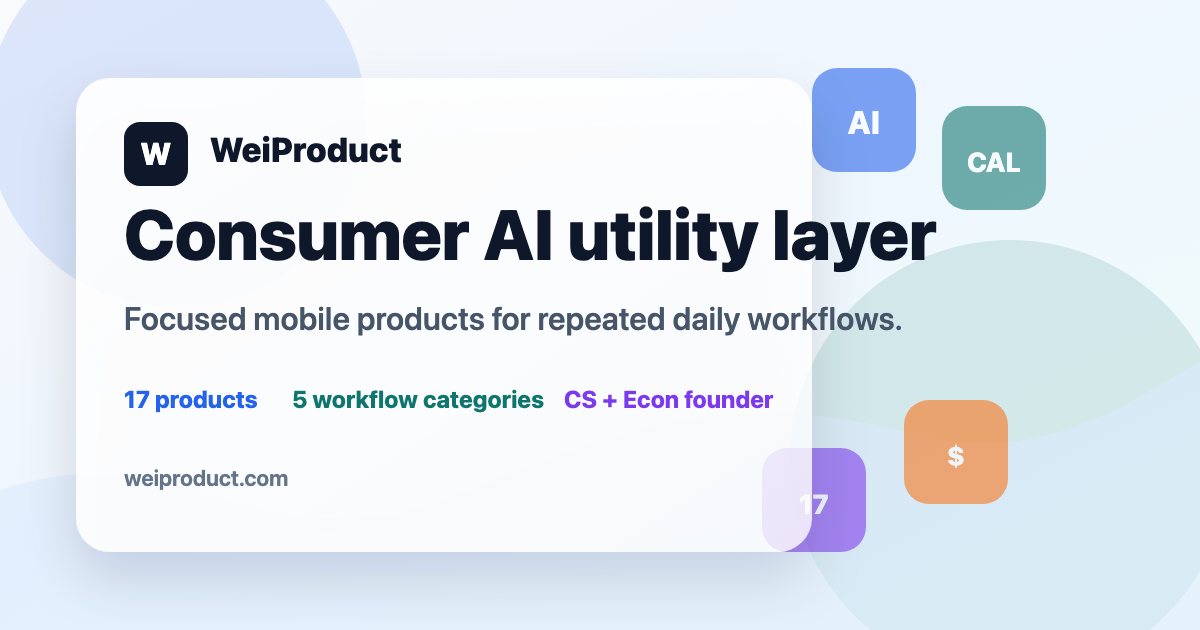
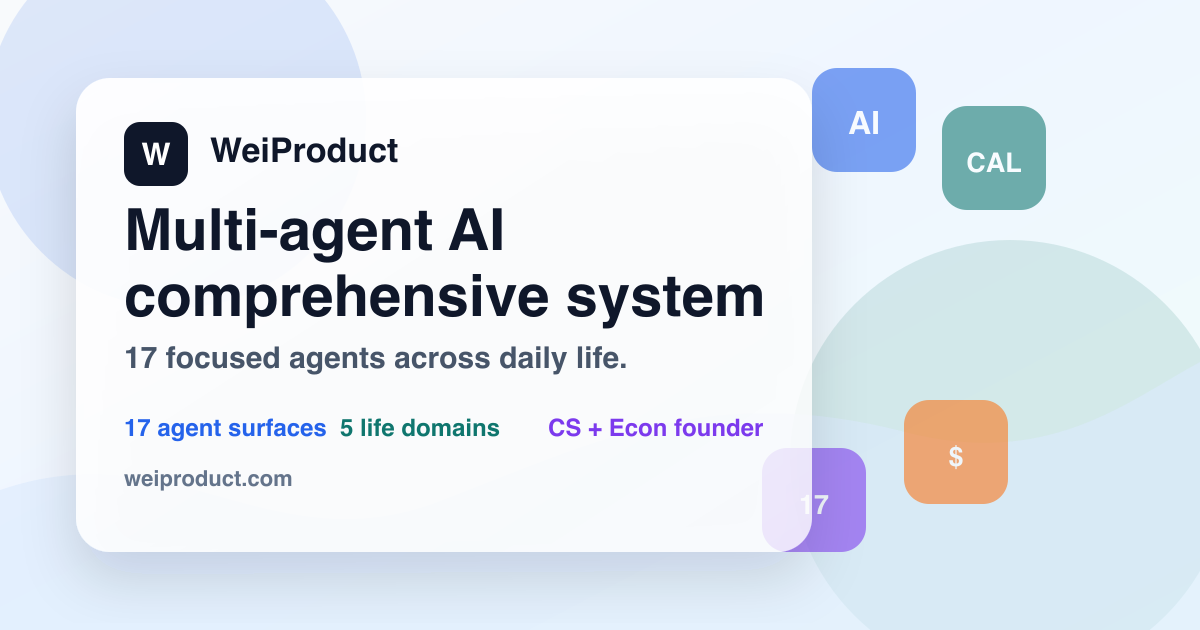
Update site theme to multi-agent AI system

diff --git a/index.html b/index.html
@@ -4,21 +4,21 @@
     <meta charset="UTF-8">
     <meta name="viewport" content="width=device-width, initial-scale=1.0">
     <meta name="theme-color" content="#0f172a">
-    <meta name="description" content="WeiProduct is a founder-led AI consumer product studio building focused mobile apps for daily workflows across productivity, finance, learning, wellness, and utility.">
+    <meta name="description" content="WeiProduct is a founder-led comprehensive multi-agent AI system built from 17 focused apps across productivity, finance, learning, wellness, and daily utility.">
     <meta name="robots" content="index, follow">
-    <meta property="og:title" content="WeiProduct | AI Consumer Product Studio">
-    <meta property="og:description" content="Founder-led AI consumer products, shipped fast and refined through a portfolio of focused mobile workflows.">
+    <meta property="og:title" content="WeiProduct | Multi-Agent AI Comprehensive System">
+    <meta property="og:description" content="A comprehensive multi-agent AI system connecting 17 focused apps into a personal context layer for better everyday decisions.">
     <meta property="og:type" content="website">
     <meta property="og:url" content="https://weiproduct.com/">
     <meta property="og:image" content="https://weiproduct.com/assets/brand/social-card.png">
     <meta property="og:image:width" content="1200">
     <meta property="og:image:height" content="630">
     <meta name="twitter:card" content="summary_large_image">
-    <meta name="twitter:title" content="WeiProduct | AI Consumer Product Studio">
-    <meta name="twitter:description" content="AI consumer products for daily workflows, built by a fast-moving CS and economics founder.">
+    <meta name="twitter:title" content="WeiProduct | Multi-Agent AI Comprehensive System">
+    <meta name="twitter:description" content="17 focused AI apps working as specialized agents across daily life, built by a fast-moving CS and economics founder.">
     <meta name="twitter:image" content="https://weiproduct.com/assets/brand/social-card.png">
 
-    <title>WeiProduct | AI Consumer Product Studio</title>
+    <title>WeiProduct | Multi-Agent AI Comprehensive System</title>
     <link rel="preload" href="css/style.css?v=20260514-site-system" as="style">
     <link rel="stylesheet" href="css/style.css?v=20260514-site-system">
     <link rel="canonical" href="https://weiproduct.com/">
@@ -33,7 +33,7 @@
       "name": "WeiProduct",
       "url": "https://weiproduct.com/",
       "logo": "https://weiproduct.com/assets/icons/ai-voice-notes.png",
-      "description": "WeiProduct is a founder-led AI consumer product studio building focused mobile apps for daily workflows across productivity, finance, learning, wellness, and utility.",
+      "description": "WeiProduct is a founder-led comprehensive multi-agent AI system built from 17 focused apps across productivity, finance, learning, wellness, and daily utility.",
       "areaServed": "Worldwide",
       "telephone": "+14135888637",
       "address": {
@@ -58,7 +58,7 @@
     {
       "@context": "https://schema.org",
       "@type": "ItemList",
-      "name": "WeiProduct app portfolio",
+      "name": "WeiProduct multi-agent app portfolio",
       "numberOfItems": 17,
       "itemListElement": [
         {
@@ -183,7 +183,7 @@
             </button>
             <ul class="nav-menu" id="navMenu">
                 <li><a href="#thesis" class="nav-link">Thesis</a></li>
-                <li><a href="#products" class="nav-link">Products</a></li>
+                <li><a href="#products" class="nav-link">Agents</a></li>
                 <li><a href="#founder" class="nav-link">Founder</a></li>
                 <li><a href="#contact" class="nav-link nav-cta">Investor contact</a></li>
             </ul>
@@ -194,15 +194,15 @@
         <section id="home" class="hero">
             <div class="container hero-layout">
                 <div class="hero-copy">
-                    <p class="eyebrow">AI consumer products, shipped fast</p>
-                    <h1>Building the consumer AI utility layer.</h1>
+                    <p class="eyebrow">Multi-agent AI comprehensive system</p>
+                    <h1>Building personal AI that understands the whole person.</h1>
                     <p class="hero-description">
-                        WeiProduct turns everyday workflows into focused mobile products across productivity, finance, learning, wellness, and utility. The advantage is founder velocity: many real products shipped, tested, and refined into a portfolio that reveals where users pull hardest.
+                        WeiProduct connects 17 focused AI apps into a coordinated personal system across productivity, finance, learning, wellness, notes, voice, calendar, habits, and utility. Each app acts as a specialized agent for one life domain; together they create richer context for better decisions.
                     </p>
                     <div class="hero-actions">
                         <a href="#products" class="btn btn-primary">
                             <span aria-hidden="true" class="ui-icon icon-layers"></span>
-                            See product velocity
+                            See the agent system
                         </a>
                         <a href="#founder" class="btn btn-secondary">
                             <span aria-hidden="true" class="ui-icon icon-founder"></span>
@@ -212,11 +212,11 @@
                     <div class="hero-metrics" aria-label="Company metrics">
                         <div>
                             <strong>17</strong>
-                            <span>Mobile products in the current portfolio</span>
+                            <span>Specialized AI agents in the current system</span>
                         </div>
                         <div>
                             <strong>5</strong>
-                            <span>Daily workflow categories</span>
+                            <span>Life domains connected into one context layer</span>
                         </div>
                         <div>
                             <strong>CS + Econ</strong>
@@ -231,35 +231,35 @@
             <div class="container">
                 <div class="section-heading">
                     <p class="eyebrow">Investment thesis</p>
-                    <h2>Consumer AI will be won inside repeated daily habits.</h2>
+                    <h2>The next personal AI will be multi-agent, not single-window chat.</h2>
                     <p>
-                        Generic assistants are powerful, but most people adopt software through specific moments: recording a thought, planning a day, learning a word, tracking health, or making a small financial decision. WeiProduct is built to discover and compound those moments quickly.
+                        A simple chatbot is limited by a fixed context window. People need help inside recurring life systems: planning time, learning, tracking health, managing money, capturing thoughts, and building habits. WeiProduct is designed as a network of specialized agents that learn from those daily workflows and coordinate around the user.
                     </p>
                     <p>
-                        Charlie Munger described great decision-making as building a latticework of mental models from the major disciplines. WeiProduct applies that idea to personal AI: connect the big ideas from productivity, finance, health, learning, habits, and daily life so the system can understand the whole person and help them make better decisions.
+                        Charlie Munger described great decision-making as building a latticework of mental models from the major disciplines. WeiProduct applies that idea to multi-agent personal AI: each agent understands one important domain, and the system connects those models so it can understand the whole person and help them make better decisions.
                     </p>
                 </div>
                 <div class="thesis-grid">
                     <article>
                         <span class="thesis-index">01</span>
-                        <h3>Portfolio learning engine</h3>
-                        <p>Multiple focused apps create more shots on real user pull while reusing design, support, and product infrastructure across the portfolio.</p>
+                        <h3>Multi-agent context engine</h3>
+                        <p>Multiple focused apps become specialized agents that capture different life signals while sharing design, support, and system infrastructure across the network.</p>
                     </article>
                     <article>
                         <span class="thesis-index">02</span>
                         <h3>Fast learning loop</h3>
-                        <p>The operating loop is simple: launch, put products in front of users, learn from usage, and narrow toward what people return to.</p>
+                        <p>The operating loop is simple: launch focused agents, put them inside real daily workflows, learn from usage, and narrow toward what people return to.</p>
                     </article>
                     <article>
                         <span class="thesis-index">03</span>
-                        <h3>Founder-market range</h3>
-                        <p>WeiProduct sits at the overlap of AI, mobile workflows, finance, productivity, and consumer utility, backed by a founder trained in both CS and economics.</p>
+                        <h3>Whole-person decision layer</h3>
+                        <p>WeiProduct sits at the overlap of AI, mobile workflows, finance, productivity, health, learning, and personal utility, backed by a founder trained in both CS and economics.</p>
                     </article>
                 </div>
                 <div class="proof-band" aria-label="Current proof points">
                     <div>
                         <strong>Public proof today</strong>
-                        <span>17 product pages, reusable app patterns, active support infrastructure, and a founder with demonstrated shipping speed.</span>
+                        <span>17 agent surfaces, reusable app patterns, active support infrastructure, and a founder with demonstrated shipping speed.</span>
                     </div>
                     <a href="#contact" class="proof-link">Start an investor conversation</a>
                 </div>
@@ -269,23 +269,23 @@
         <section id="products" class="products">
             <div class="container">
                 <div class="section-heading">
-                    <p class="eyebrow">Products</p>
-                    <h2>Evidence of shipping velocity.</h2>
+                    <p class="eyebrow">Agent system</p>
+                    <h2>The system starts with focused agents.</h2>
                     <p>
-                        Each product is a focused probe into a recurring consumer workflow. The portfolio is broad by design: test repeatable moments, learn where AI creates durable behavior, then concentrate around the strongest pull.
+                        Each product is a specialized agent surface for a recurring life workflow. The system is broad by design: cover the major contexts of a person's life, learn where AI creates durable behavior, then connect the strongest signals into one comprehensive personal intelligence layer.
                     </p>
                 </div>
 
-                <div class="featured-grid" id="featuredGrid" aria-label="Featured products"></div>
+                <div class="featured-grid" id="featuredGrid" aria-label="Featured agents"></div>
 
                 <div class="portfolio-toolbar">
-                    <h3>All products</h3>
-                    <p><span id="productCount">17 products</span> grouped by workflow so investors can scan the portfolio logic quickly.</p>
+                    <h3>All agent surfaces</h3>
+                    <p><span id="productCount">17 agent surfaces</span> grouped by life domain so investors can scan the system logic quickly.</p>
                 </div>
-                <div class="product-filters" id="productFilters" aria-label="Filter product categories"></div>
+                <div class="product-filters" id="productFilters" aria-label="Filter agent categories"></div>
                 <div class="product-grid" id="productGrid" aria-live="polite"></div>
                 <noscript>
-                    <p class="product-fallback">Enable JavaScript to browse the full WeiProduct portfolio. Featured products remain available above.</p>
+                    <p class="product-fallback">Enable JavaScript to browse the full WeiProduct agent system. Featured agents remain available above.</p>
                 </noscript>
             </div>
         </section>
@@ -294,28 +294,28 @@
             <div class="container">
                 <div class="section-heading compact">
                     <p class="eyebrow">Operating model</p>
-                    <h2>Launch, learn, focus, compound.</h2>
+                    <h2>Launch, learn, coordinate, compound.</h2>
                 </div>
                 <div class="focus-grid">
                     <article>
                         <span aria-hidden="true" class="ui-icon icon-bolt"></span>
                         <h3>Ship narrow</h3>
-                        <p>Each product starts with one clear job so users can understand the value quickly.</p>
+                        <p>Each agent starts with one clear job so users can understand the value quickly.</p>
                     </article>
                     <article>
                         <span aria-hidden="true" class="ui-icon icon-phone"></span>
                         <h3>Design for moments</h3>
-                        <p>The portfolio is built around phone-native moments: quick capture, quick review, and quick action.</p>
+                        <p>The system is built around phone-native moments: quick capture, quick review, and quick action.</p>
                     </article>
                     <article>
                         <span aria-hidden="true" class="ui-icon icon-ai"></span>
-                        <h3>Use AI as leverage</h3>
-                        <p>AI is used to reduce friction, summarize, suggest, and personalize rather than make the product feel heavier.</p>
+                        <h3>Use agents as leverage</h3>
+                        <p>AI agents reduce friction, summarize, suggest, and personalize while keeping each daily workflow lightweight.</p>
                     </article>
                     <article>
                         <span aria-hidden="true" class="ui-icon icon-compound"></span>
                         <h3>Compound what works</h3>
-                        <p>Reusable support pages, app patterns, and category learnings make every new product cheaper to test.</p>
+                        <p>Reusable support pages, app patterns, and domain learnings make every new agent cheaper to test and easier to connect.</p>
                     </article>
                 </div>
             </div>
@@ -329,10 +329,10 @@
                 </div>
                 <div class="studio-copy">
                     <p>
-                        WeiProduct is led by Wei Fu, a University of Massachusetts Amherst graduate with dual Bachelor of Science degrees in Computer Science and Managerial Economics. That combination matters: the company is not just building apps, it is testing consumer workflows with an understanding of software, markets, and decision-making.
+                        WeiProduct is led by Wei Fu, a University of Massachusetts Amherst graduate with dual Bachelor of Science degrees in Computer Science and Managerial Economics. That combination matters: the company is not just building apps, it is designing a multi-agent AI system with an understanding of software, markets, and decision-making.
                     </p>
                     <p>
-                        The founder profile supports the company strategy: Swift and iOS development, OpenAI/Whisper/Claude API integration, Python and data analysis, finance training, market research, Dean's List honors across five semesters, and a four-year merit-based scholarship. The strongest visible signal is speed: 13 AI-powered iOS apps in the founder track record and 17 current product surfaces in the company portfolio.
+                        The founder profile supports the company strategy: Swift and iOS development, OpenAI/Whisper/Claude API integration, Python and data analysis, finance training, market research, Dean's List honors across five semesters, and a four-year merit-based scholarship. The strongest visible signal is speed: 13 AI-powered iOS apps in the founder track record and 17 current agent surfaces in the company system.
                     </p>
                     <div class="founder-highlights">
                         <span>UMass Amherst CS</span>
@@ -354,7 +354,7 @@
                     <p class="eyebrow">Investor contact</p>
                     <h2>Seed, accelerator, partnership, and distribution conversations.</h2>
                     <p>
-                        WeiProduct is open to conversations with investors, accelerators, distribution partners, and operators who understand consumer AI, mobile products, and fast product iteration.
+                        WeiProduct is open to conversations with investors, accelerators, distribution partners, and operators who understand multi-agent AI, mobile products, and fast product iteration.
                     </p>
                 </div>
                 <div class="contact-card">

diff --git a/js/main.js b/js/main.js
@@ -207,13 +207,13 @@ function createIconImage(product, size = 120, lazy = true) {
     return image;
 }
 
-function createProductLink(product, label = 'Product site') {
+function createProductLink(product, label = 'Agent site') {
     const link = document.createElement('a');
     link.href = product.url;
     link.target = '_blank';
     link.rel = 'noopener noreferrer';
     link.textContent = label;
-    link.setAttribute('aria-label', `Open ${product.name} product site`);
+    link.setAttribute('aria-label', `Open ${product.name} agent site`);
     return link;
 }
 
@@ -339,7 +339,7 @@ function updateProductFilter(filter) {
     });
 
     if (productCount) {
-        productCount.textContent = `${visibleCount} ${visibleCount === 1 ? 'product' : 'products'}`;
+        productCount.textContent = `${visibleCount} ${visibleCount === 1 ? 'agent surface' : 'agent surfaces'}`;
     }
 }
 
@@ -403,7 +403,7 @@ function renderProductError() {
 
     const message = document.createElement('p');
     message.className = 'product-fallback';
-    message.textContent = 'Product data is temporarily unavailable. Featured products and contact links remain available.';
+    message.textContent = 'Agent data is temporarily unavailable. Featured agents and contact links remain available.';
     productGrid.replaceChildren(message);
 }
 
